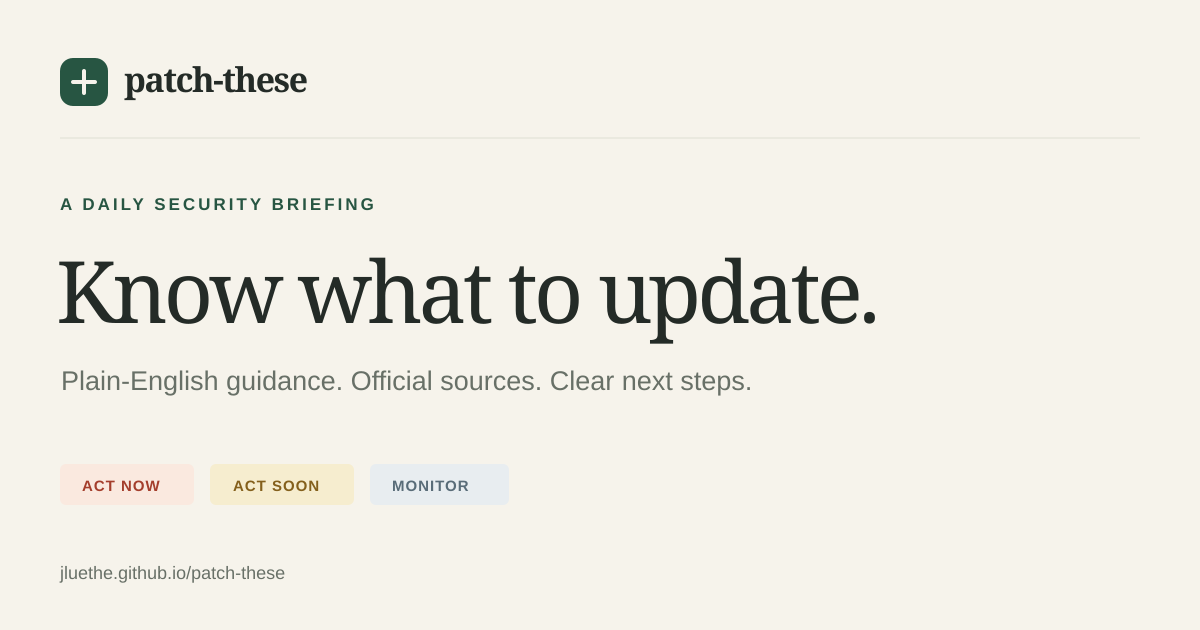
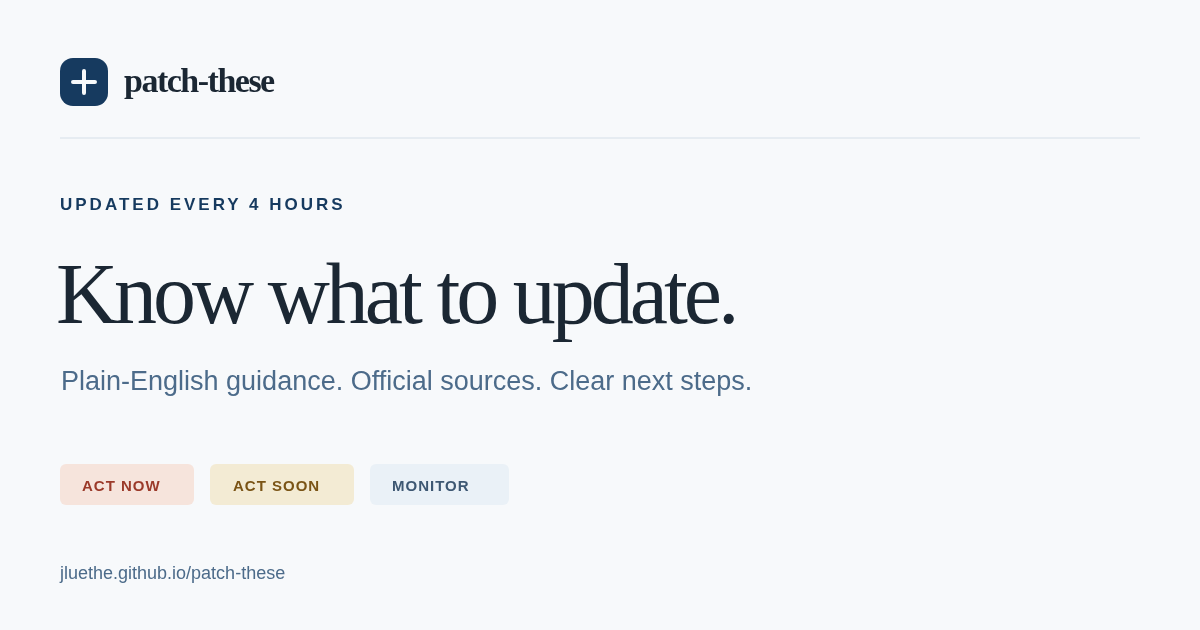
Describe the 4-hour cadence and early signals

diff --git a/assets/style.css b/assets/style.css
@@ -119,6 +119,9 @@ h1 { margin: 0 0 0.9rem; font-family: var(--serif); font-weight: 500; font-size:
 .hero-copy h1 em { color: var(--accent); font-weight: 500; }
 .hero-meta { display: flex; flex-wrap: wrap; gap: 0.35rem 1.1rem; margin-top: 0.9rem; font-size: 0.76rem; color: var(--muted); }
 .hero-meta p { margin: 0.25rem 0; }
+.how-this-works { margin: 0 0 1.6rem; max-width: 44rem; }
+.how-this-works h2 { margin: 0 0 0.4rem; font-size: 0.72rem; font-weight: 650; letter-spacing: 0.12em; text-transform: uppercase; color: var(--accent); }
+.how-this-works p { margin: 0; font-size: 0.85rem; line-height: 1.7; color: var(--muted); }
 .edition-stats { display: flex; gap: 1.65rem; padding: 0 0 0.2rem 1.8rem; border-left: 1px solid var(--line-strong); }
 .stat { min-width: 56px; }
 .stat strong, .stat .stat-number { display: block; font-family: var(--serif); font-size: 2.15rem; font-weight: 500; line-height: 1.25; letter-spacing: -0.05em; }

diff --git a/scripts/patchthese/rendering.py b/scripts/patchthese/rendering.py
@@ -160,7 +160,7 @@ def page(title: str, body: str, site_url: str, path: str, *, description: str = 
 <body class="{escape(body_class)}"{dates}><a class="skip" href="#main">Skip to content</a>
 <div class="wrap"><header class="site-header"><div class="header-top"><div class="brand"><a class="wordmark" href="{href('')}">patch-these<span aria-hidden="true">.</span></a><p class="byline">By <a href="https://github.com/JLuethe">John Luethe</a></p></div><nav class="main-nav" aria-label="Main"><a href="{href('')}">Latest briefing</a><a href="{href('archive/')}">Archive</a><a href="{href('methodology/')}">Our method</a><a href="{href('subscribe/')}">Subscribe <span aria-hidden="true">↗</span></a></nav></div><p class="project-blurb">{escape(DESCRIPTION)}</p></header>
 <main id="main">{body}</main>
-<footer class="site-footer"><div><a class="wordmark" href="{href('')}">patch-these.</a><p>By <a href="https://github.com/JLuethe">John Luethe</a></p><p>Curated, not complete. Unofficial. Verify the vendor advisory before acting.</p><p class="muted">Not professional advice. Not affiliated with CISA, FIRST, or any vendor. EPSS is a probability, not a certainty.</p></div><div class="feed-links"><a href="{href('products/')}">Products</a><a href="{href('subscribe/')}">Atom feeds</a><a href="{href('latest.json')}">Latest JSON</a><a href="{href('data/schema.json')}">Data schema</a><a href="{escape(REPO)}">GitHub</a><a href="{escape(REPO + '/blob/main/LICENSE')}">Content: CC BY 4.0</a><a href="{escape(REPO + '/blob/main/LICENSE-CODE')}">Code: MIT</a></div></footer></div></body></html>'''
+<footer class="site-footer"><div><a class="wordmark" href="{href('')}">patch-these.</a><p>By <a href="https://github.com/JLuethe">John Luethe</a></p><p>Curated, not complete. Unofficial. Updated every 4 hours, 6 AM–10 PM Pacific. Early signals are not confirmed. Verify the vendor advisory before acting.</p><p class="muted">Not professional advice. Not affiliated with CISA, FIRST, or any vendor. EPSS is a probability, not a certainty.</p></div><div class="feed-links"><a href="{href('products/')}">Products</a><a href="{href('subscribe/')}">Atom feeds</a><a href="{href('latest.json')}">Latest JSON</a><a href="{href('data/schema.json')}">Data schema</a><a href="{escape(REPO)}">GitHub</a><a href="{escape(REPO + '/blob/main/LICENSE')}">Content: CC BY 4.0</a><a href="{escape(REPO + '/blob/main/LICENSE-CODE')}">Code: MIT</a></div></footer></div></body></html>'''
 
 
 def filters(total: int) -> str:
@@ -214,7 +214,8 @@ def briefing_body(edition: dict, site_url: str, *, latest: bool) -> str:
     signals = early_signals(edition, site_url)
     if not cards:
         cards = '<p class="notice">No new verified items in this edition. This does not establish that your software has no outstanding updates.</p>'
-    return f'''<section class="hero"><div class="hero-copy"><p class="eyebrow">{'Latest briefing' if latest else 'From the archive'} <span aria-hidden="true">/</span> <time datetime="{edition['digest_date']}">{human_date(edition['digest_date'])}</time></p><h1>Know what needs<br>your attention.</h1><p class="hero-intro">Security updates, in plain English.<br>Find your software. Understand the risk. Take the next step.</p><div class="hero-meta"><span>Covers {coverage(edition)}</span><span>Updated {human_time(edition['updated_at'])}</span></div></div><div class="edition-stats" aria-label="Edition summary"><div class="stat"><strong>{len(verified):02d}</strong><span>items in this briefing</span></div><div class="stat"><strong>{now:02d}</strong><span>act now, if affected</span></div><div class="stat"><strong>{soon:02d}</strong><span>act soon</span></div></div></section>
+    return f'''<section class="hero"><div class="hero-copy"><p class="eyebrow">{'Latest briefing' if latest else 'From the archive'} <span aria-hidden="true">/</span> <time datetime="{edition['digest_date']}">{human_date(edition['digest_date'])}</time></p><h1>Know what needs<br>your attention.</h1><p class="hero-intro">Security updates, in plain English.<br>Find your software. Understand the risk. Take the next step.</p><div class="hero-meta"><span>Covers {coverage(edition)}</span><span>Updated {human_time(edition['updated_at'])}</span><span>Updated every 4 hours, 6 AM–10 PM Pacific.</span></div></div><div class="edition-stats" aria-label="Edition summary"><div class="stat"><strong>{len(verified):02d}</strong><span>items in this briefing</span></div><div class="stat"><strong>{now:02d}</strong><span>act now, if affected</span></div><div class="stat"><strong>{soon:02d}</strong><span>act soon</span></div></div></section>
+<section class="how-this-works" aria-labelledby="how-this-works-heading"><h2 id="how-this-works-heading">How this works</h2><p>Each run looks first for new reports on X, Bluesky and Mastodon. Unconfirmed leads are published as Early signals: not yet verified, with no hard patch recommendation. A patch recommendation, confirmed exploitation, or a CISA KEV listing is added only after a primary source confirms it. Official feeds refresh about every 30 minutes, earlier urgent items are rechecked when those feeds show a change for that product, and one dated edition is updated through the day with a corrections log. No exploit details.</p></section>
 <p class="notice" id="freshness-note" hidden></p>{corrections(edition)}{edition_notes}{signals}{featured(edition)}{filters(len(verified))}
 <div class="content-grid"><div class="briefing-list">{cards}</div><aside class="briefing-sidebar" aria-label="Reading the briefing"><section class="sidebar-card"><p class="eyebrow">Keep it relevant</p><h2>A smaller reading list.</h2><p>Use the filters to find your software. Save products to keep your own list on this browser.</p><p class="muted">Product selection is a reading preference, not a scan of your installed software.</p></section><section class="sidebar-card"><p class="eyebrow">How to read this</p><h2>Urgency ≠ a patch.</h2><p><strong>Act now</strong><br>Prioritize action if your installation is affected.</p><p><strong>Act soon</strong><br>Plan the recommended update or mitigation.</p><p><strong>Monitor</strong><br>Follow developments; the next step may change.</p><p>No patch can mean mitigate or replace. Check the affected scope and the source.</p><a href="{href('methodology/')}">Read our method ↗</a></section><section class="sidebar-card"><p class="eyebrow">Stay in the loop</p><h2>Choose your feed.</h2><p>All updates, personal software, or apps and servers. Read in your preferred feed reader.</p><a href="{href('subscribe/')}">Subscribe to an Atom feed ↗</a></section></aside></div>
 <p class="sidecar"><a href="{href('data/' + edition['digest_date'] + '.json')}">This edition as JSON</a> · <a href="{href('digests/' + edition['digest_date'] + '.md')}">Generated Markdown</a></p>'''
@@ -230,4 +231,4 @@ def subscribe_body(site_url: str) -> str:
     for path, title, detail in [("feed.xml", "The full briefing", "Every item in each edition."), ("feeds/everyone.xml", "For your computer", "End-user software, plus items relevant to everyone."), ("feeds/operators.xml", "For apps & servers", "Infrastructure, libraries and services, plus items relevant to everyone.")]:
         url = site_url + "/" + path
         rows.append(f'<section class="sidebar-card"><h2>{title}</h2><p>{detail}</p><a href="{escape(root_path(site_url, path))}">Open Atom feed ↗</a><p><code>{escape(url)}</code></p></section>')
-    return '<section class="prose"><p class="eyebrow">Less checking, more knowing</p><h1>Follow what matters.</h1><p>Paste a feed URL into your preferred RSS/Atom reader. Each edition includes the relevant actions and source links. Corrections update the entry.</p><div class="feed-options">' + "".join(rows) + '</div><h2>Prefer structured data?</h2><p><a href="' + escape(root_path(site_url, "latest.json")) + '">latest.json</a> always contains the newest edition, using our <a href="' + escape(root_path(site_url, "data/schema.json")) + '">published JSON Schema</a>. Schema version 2 separates urgency, exploitation, KEV membership and fixes.</p></section>'
+    return '<section class="prose"><p class="eyebrow">Less checking, more knowing</p><h1>Follow what matters.</h1><p>Paste a feed URL into your preferred RSS/Atom reader. The briefing is updated every 4 hours from 6 AM to 10 PM Pacific. Each edition includes confirmed actions, early signals labeled as not yet verified, and source links. Corrections update the entry.</p><div class="feed-options">' + "".join(rows) + '</div><h2>Prefer structured data?</h2><p><a href="' + escape(root_path(site_url, "latest.json")) + '">latest.json</a> always contains the newest edition, using our <a href="' + escape(root_path(site_url, "data/schema.json")) + '">published JSON Schema</a>. Schema version 2 separates urgency, exploitation, KEV membership and fixes.</p></section>'

diff --git a/scripts/patchthese/common.py b/scripts/patchthese/common.py
@@ -13,8 +13,9 @@ AUDIENCES = {"applications_and_servers": "Apps & servers", "end_users": "My comp
 ACTIONS = {"update": "Update", "mitigate": "Mitigate", "replace": "Replace", "rotate": "Rotate credentials", "investigate": "Check applicability"}
 REPO = "https://github.com/JLuethe/patch-these"
 DESCRIPTION = (
-    "A daily, plain-English briefing of security issues raised on X, Bluesky and Mastodon, "
-    "checked against vendor advisories, CISA KEV and EPSS, and turned into what to patch. "
+    "A plain-English security briefing, updated every 4 hours from 6 AM to 10 PM Pacific. "
+    "It finds new issues on X, Bluesky and Mastodon, publishes unconfirmed leads as early signals, "
+    "and recommends patches only after a vendor advisory, CISA KEV, or NVD confirms them. "
     "No exploit details."
 )
 X_HOSTS = {"x.com", "www.x.com", "twitter.com", "www.twitter.com", "mobile.twitter.com"}

diff --git a/tests/test_publishing.py b/tests/test_publishing.py
@@ -55,10 +55,12 @@ def test_site_credits_the_maintainer(publication):
     output = build_site(publication, site_url=SITE_URL)
     home = (output / "index.html").read_text()
     assert home.count('By <a href="https://github.com/JLuethe">John Luethe</a>') == 2
-    assert "security issues raised on X, Bluesky and Mastodon" in home
+    assert "updated every 4 hours from 6 AM to 10 PM Pacific" in home
+    assert "finds new issues on X, Bluesky and Mastodon" in home
     assert "No exploit details." in home
     feed = (output / "feed.xml").read_text()
-    assert "security issues raised on X, Bluesky and Mastodon" in feed
+    assert "updated every 4 hours from 6 AM to 10 PM Pacific" in feed
+    assert "finds new issues on X, Bluesky and Mastodon" in feed
     assert "Maintained by [John Luethe](https://github.com/JLuethe)." in (ROOT / "README.md").read_text()
 
 

diff --git a/METHODOLOGY.md b/METHODOLOGY.md
@@ -6,9 +6,15 @@ The briefings are curated, not a complete inventory of vulnerabilities. A missin
 
 ## Discovery and evidence
 
+The briefing is updated every 4 hours, at 6 AM, 10 AM, 2 PM, 6 PM and 10 PM Pacific time, every day. Each calendar day has one dated edition, updated in place, with a corrections log.
+
+Each run looks first for new security issues on X, Bluesky and Mastodon, especially fresh posts that may not be fully validated yet. Unconfirmed leads are published as Early signals: not yet verified, with no hard patch recommendation. A patch recommendation, a confirmed exploitation status, or a CISA KEV listing is added only after a primary source confirms it: a vendor advisory, CISA KEV, NVD, FIRST EPSS, or the original researcher.
+
+Official sources also arrive through a feed cache refreshed about every 30 minutes, including CISA KEV, vendor advisories, GitHub advisories, and Hacker News. Earlier urgent items are rechecked when those official feeds show a change for that product, so older items can lag between checks.
+
 Social posts are discovery leads. They are not evidence of exploitation, of a fixed version, or of who is affected. Those claims are verified against primary sources: vendor advisories, government alerts, original researcher reports, CVE records, and score services. A popular post is not that evidence.
 
-From 26 November 2026 the daily scan looks for security issues raised on X, Bluesky and Mastodon:
+Social discovery uses:
 
 - X search.
 - Bluesky public post search.
@@ -22,7 +28,7 @@ Source kinds are `vendor_advisory`, `government_alert`, `researcher_report`, `so
 
 `checked_at` means the source content was checked. It is not the source publication date, the digest publication date, or the date an automated HTTP request succeeded. Historical records with no preserved verification timestamp retain `null`. Unknown information is never replaced by a guessed timestamp, score, affected range, or fixed version.
 
-The current repository validates structure and builds the publication. It does not automatically collect social posts or prove the truth of source claims. An editor must check the evidence before publishing.
+The current repository validates structure, caches official feeds, and builds the publication. It does not automatically collect social posts or prove the truth of source claims. An editor must check the evidence before publishing.
 
 ## Urgency and action
 
@@ -70,7 +76,7 @@ EPSS estimates exploitation probability over the next 30 days. It is not proof t
 
 `published_at` records initial publication. `updated_at` records a meaningful editorial revision. Corrections include a timestamp, a plain-language explanation, and affected item IDs. Record changes to versions, affected scope, sources, exploitation status, or urgency so readers can see what changed. Rebuilding unchanged content must not invent a new editorial update time.
 
-One America/Los_Angeles calendar day is one edition file. A later run on that same day updates the file and appends another correction. Corrections on one edition are ordered: each `at` is at or after the previous correction and no later than `updated_at`. The first run of a new calendar day creates that day's file. A day with nothing new to verify is still published as an empty edition.
+One America/Los_Angeles calendar day is one edition file. Runs at 6 AM, 10 AM, 2 PM, 6 PM and 10 PM Pacific update that day's file and append a correction when something changes. Corrections on one edition are ordered: each `at` is at or after the previous correction and no later than `updated_at`. The first run of a new calendar day creates that day's file. A day with nothing new to verify is still published as an empty edition.
 
 The weekly link checker detects missing local links and public HTTP 404/410 responses. Authentication barriers, throttling, server errors, network failures, and unauthenticated social pages are explicitly inconclusive. A reachable URL does not validate a claim. Inconclusive results need manual review and remain in the workflow report.
 

diff --git a/README.md b/README.md
@@ -1,6 +1,6 @@
 # patch-these
 
-A daily, plain-English briefing of security issues raised on X, Bluesky and Mastodon, checked against vendor advisories, CISA KEV and EPSS, and turned into what to patch. No exploit details.
+A plain-English security briefing, updated every 4 hours from 6 AM to 10 PM Pacific. It looks for new issues on X, Bluesky and Mastodon, publishes unconfirmed leads as early signals, and recommends patches only after a vendor advisory, CISA KEV, NVD, or another primary source confirms them. No exploit details.
 
 Maintained by [John Luethe](https://github.com/JLuethe).
 
@@ -46,7 +46,7 @@ Each edition has one editable source: `data/YYYY-MM-DD.json`. JSON Schema and se
 
 The site is plain static HTML, CSS, and a small local script for optional filters. All briefing content and source links work without JavaScript. Saved products stay in the reader's browser; there are no accounts, analytics, or installation scans.
 
-The repository provides validation and publishing, plus a weekly link check. It does not currently include an automated news collector. A person or external producer prepares the JSON; [CONTRIBUTING.md](CONTRIBUTING.md) defines that contract. A link responding successfully does not by itself verify a claim.
+Editions are updated in place through the day, at 6 AM, 10 AM, 2 PM, 6 PM and 10 PM Pacific, with a corrections log. Official sources arrive through a feed cache refreshed about every 30 minutes. A person still prepares the edition JSON; [CONTRIBUTING.md](CONTRIBUTING.md) defines that contract. The repository provides validation and publishing, plus a weekly link check. A link responding successfully does not by itself verify a claim.
 
 ## Develop and publish an edition
 
